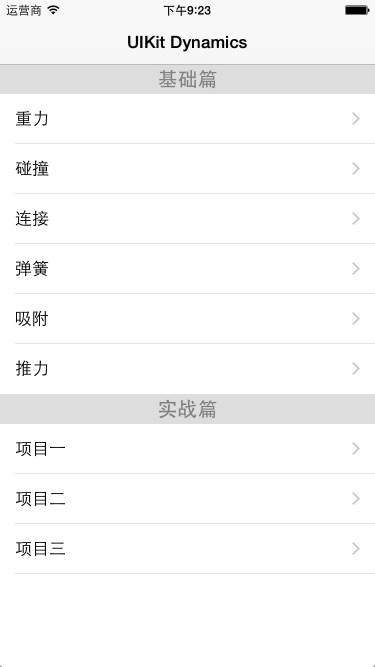
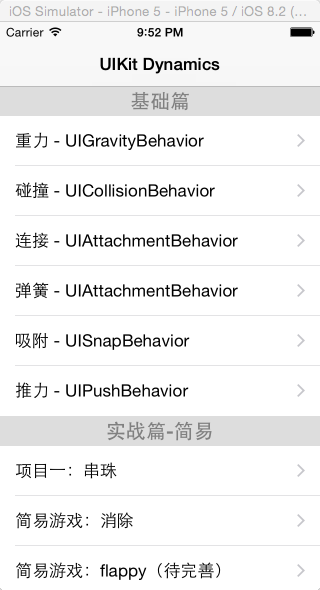
修改部分文案

diff --git a/DynamicsDemo/RootViewController.m b/DynamicsDemo/RootViewController.m
@@ -32,8 +32,10 @@
     
     _myTableView.tableFooterView = [UIView new];
     
-    titleArray = @[@[@"重力",@"碰撞",@"连接",@"弹簧",@"吸附",@"推力"],
-                   @[@"项目一",@"项目二",@"项目三"]];
+    titleArray = @[@[@"重力 - UIGravityBehavior",@"碰撞 - UICollisionBehavior",
+                     @"连接 - UIAttachmentBehavior",@"弹簧 - UIAttachmentBehavior",
+                     @"吸附 - UISnapBehavior",@"推力 - UIPushBehavior"],
+                   @[@"项目一：串珠",@"简易游戏：消除",@"简易游戏：flappy（待完善）"]];
 }
 
 #pragma mark - UITableView Datasource
@@ -62,7 +64,7 @@
 
 - (UIView *)tableView:(UITableView *)tableView viewForHeaderInSection:(NSInteger)section{
     UILabel *label = [[UILabel alloc]initWithFrame:CGRectMake(0, 0, [UIScreen mainScreen].bounds.size.width, 30)];
-    label.text = section==0?@"基础篇":@"实战篇";
+    label.text = section==0?@"基础篇":@"实战篇-简易";
     label.font = [UIFont boldSystemFontOfSize:20];
     label.textColor = [UIColor grayColor];
     label.backgroundColor = [[UIColor lightGrayColor] colorWithAlphaComponent:0.4];
